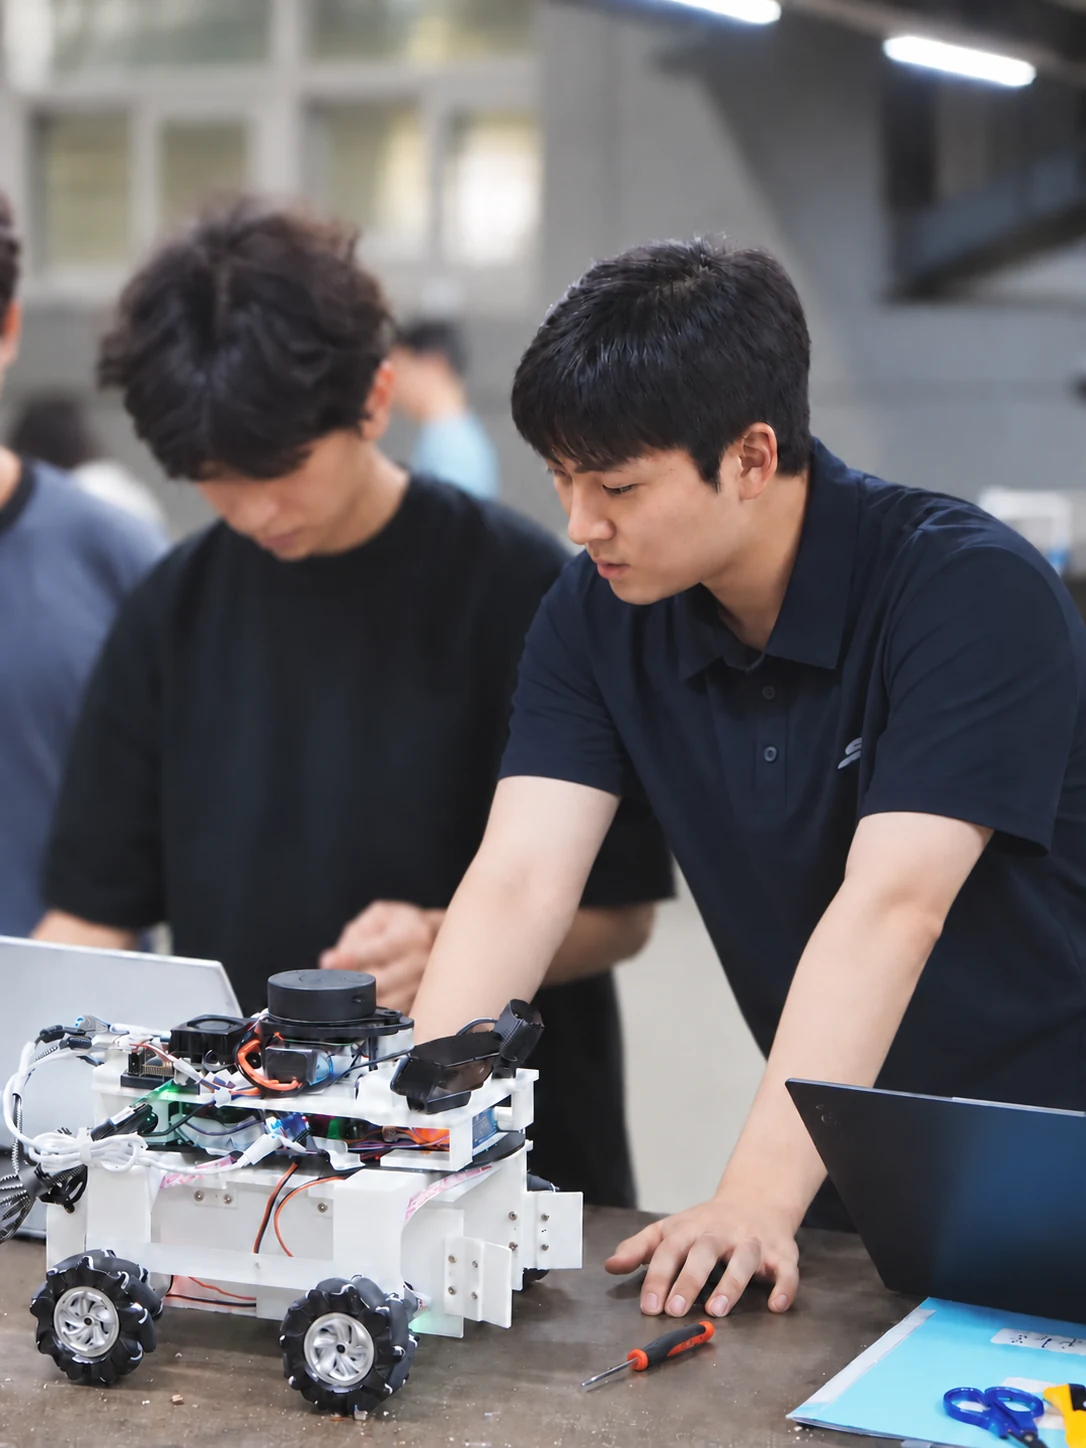
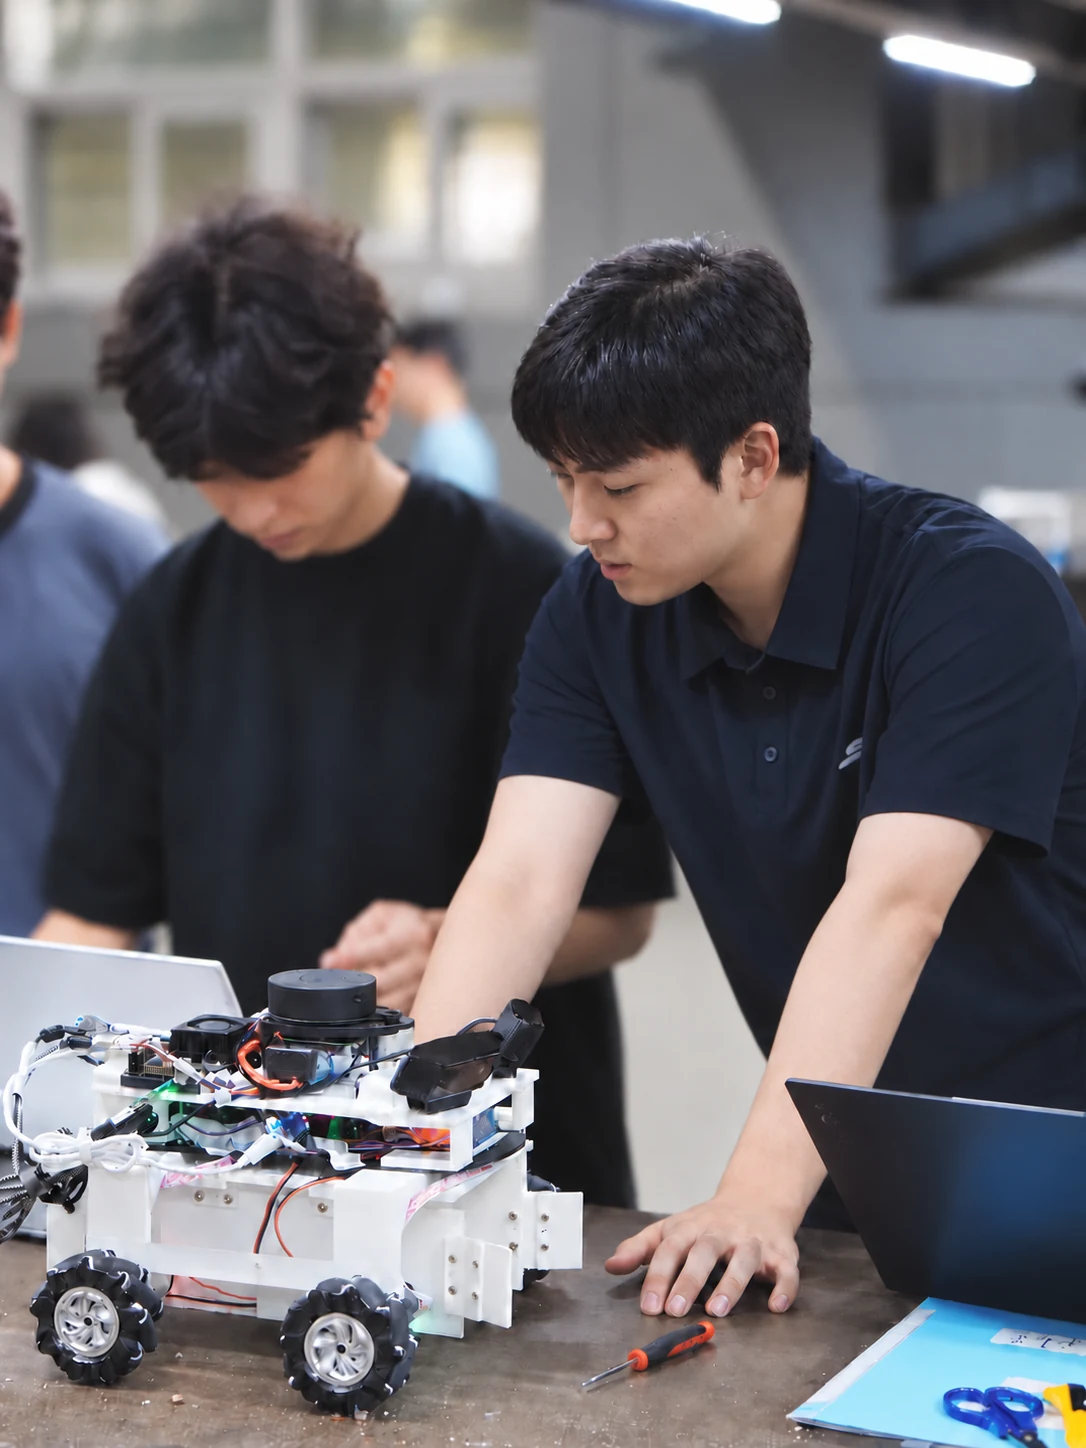
Refine homepage profile photo

diff --git a/index.html b/index.html
@@ -43,7 +43,7 @@
           </div>
         </div>
         <figure class="hero-portrait">
-          <img src="assets/img/hyunsu-go-profile.webp?v=20261020-5" alt="Hyunsu Go working with a mobile robot in a laboratory" width="1086" height="1448" fetchpriority="high" decoding="async" />
+          <img src="assets/img/hyunsu-go-profile.webp?v=20261020-6" alt="Hyunsu Go working with a mobile robot in a laboratory" width="1086" height="1448" fetchpriority="high" decoding="async" />
         </figure>
       </section>
 
